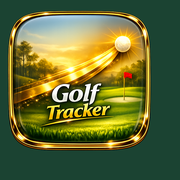
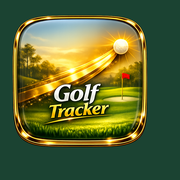
Add files via upload

diff --git a/sw.js b/sw.js
@@ -3,9 +3,9 @@
    hors-ligne (sur le parcours, sans réseau). */
 
 // Nom du cache = version du PWA. RÈGLE : garder synchronisé avec APP_BUILD dans app.js à
-// chaque modification (ex. app.js "v1.8.0" -> cache "golftracker-mobile-1.9.1"). Le changement
+// chaque modification (ex. app.js "v1.8.0" -> cache "golftracker-mobile-1.9.2"). Le changement
 // de ce nom déclenche la purge de l'ancien cache à l'activation (voir handler 'activate').
-const CACHE_NAME = "golftracker-mobile-1.9.1";
+const CACHE_NAME = "golftracker-mobile-1.9.2";
 const ASSETS = [
   "./index.html",
   "./style.css",

diff --git a/app.js b/app.js
@@ -11,7 +11,7 @@
   // incrémenter cette valeur ET le CACHE_NAME de sw.js à l'identique (ex. ici "v1.8.0" ->
   // cache "golftracker-mobile-1.8.0"). Changer le nom du cache est ce qui force la purge et
   // garantit que la nouvelle version s'installe proprement.
-  var APP_BUILD = "v1.9.1";
+  var APP_BUILD = "v1.9.2";
 
   var LS_COURSES = "gtm_courses_v1";
   var LS_ROUNDS = "gtm_rounds_v1";